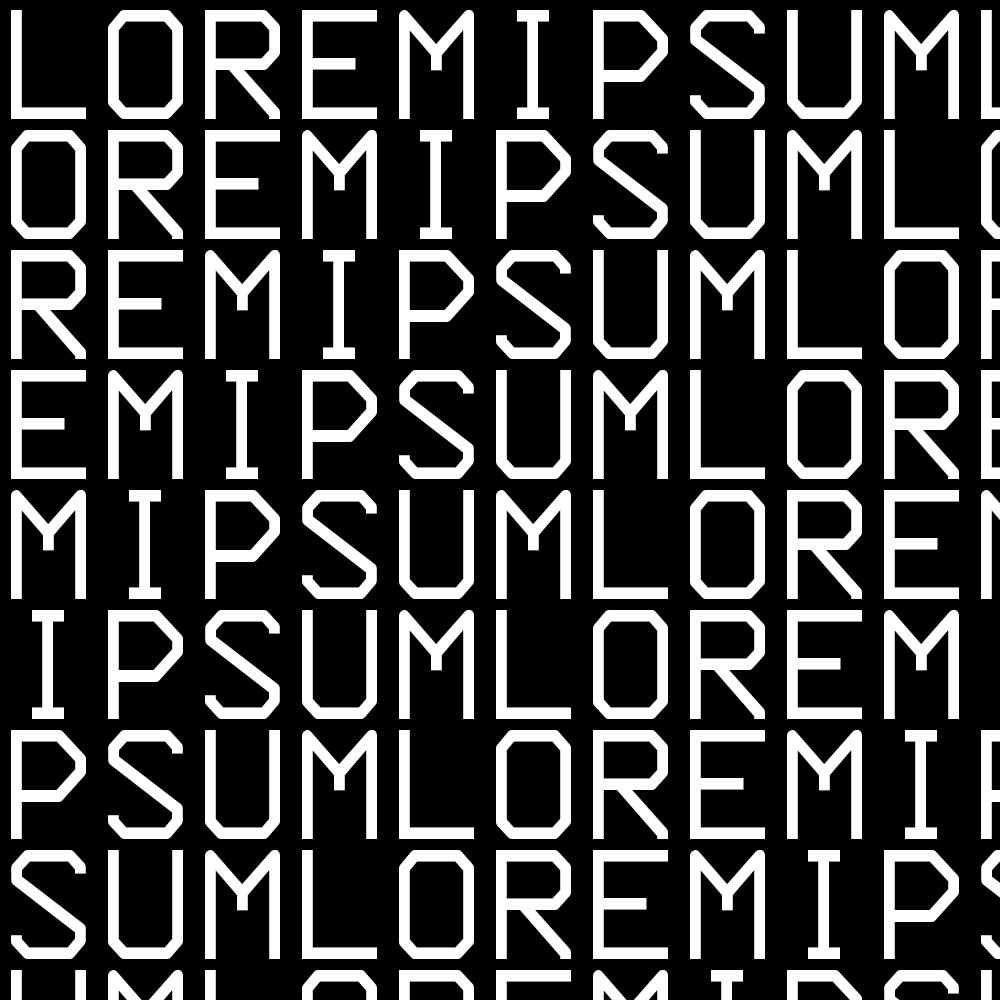
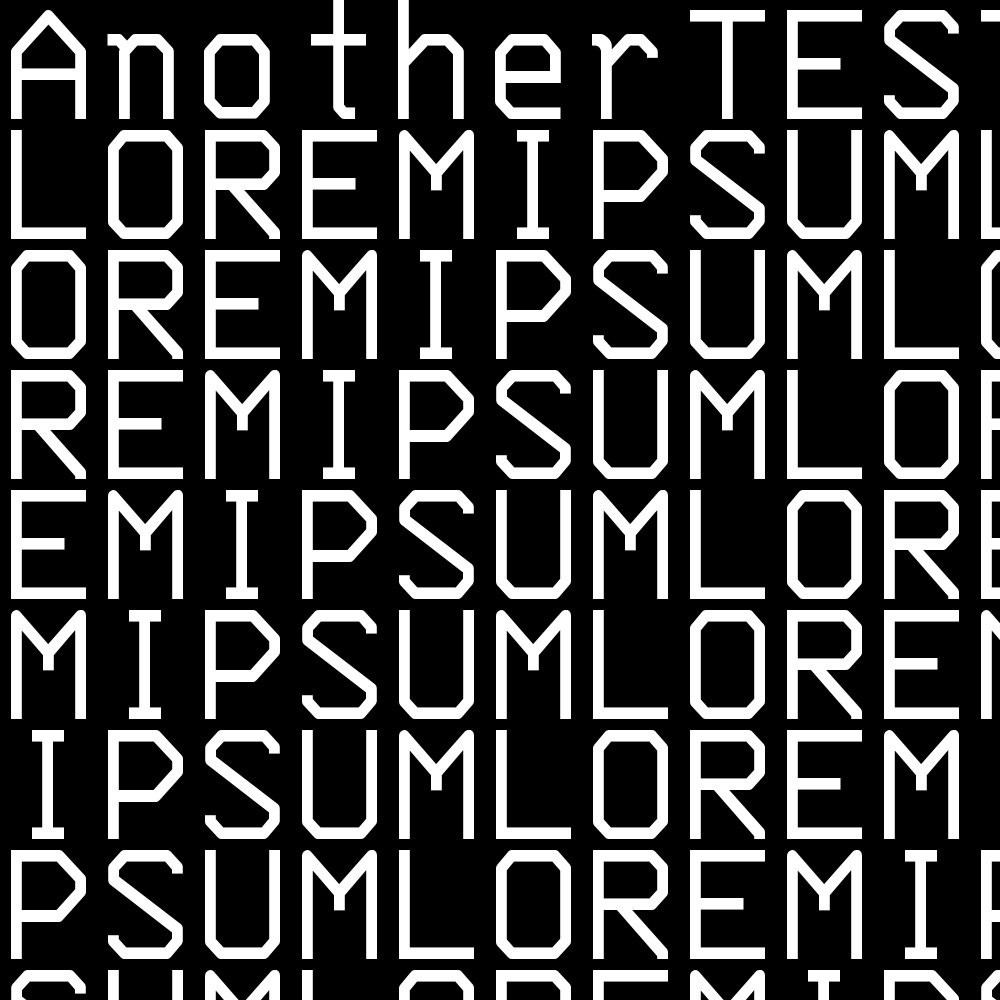
the code works i guess

diff --git a/main.py b/main.py
@@ -4,31 +4,6 @@ import cv2
 from PIL import Image, ImageFont, ImageDraw
 import numpy as np
 
-
-NATO_LIST = []
-NATO_FILES_LIST = []
-BUMPER_FILE_LIST = []
-
-
-def SET_VARS():
-    global now_filename
-    global NAME_LETTER_MP3
-    global NAME_MUSAK_MP3
-    global NAME_ICON_PNG
-    global now
-    global this_hour
-    now = datetime.now(timezone.utc)
-    today = date.today()
-    this_year = str(today.year)
-    this_month = str(today.month)
-    this_day = str(today.day)
-    this_hour = str(int(now.strftime("%H"))+1)
-    now_filename = this_year+"-"+this_month+"-"+this_day+"-"+this_hour
-    NAME_LETTER_MP3 = now_filename+"-LETTERS-TEST.mp3"
-    NAME_MUSAK_MP3 = now_filename+"-MUSAK-TEST.mp3"
-    NAME_ICON_PNG = now_filename+"-ICON-TEST.png"
-
-
 def generate_random_alphanumeric(length):
     characters = string.ascii_uppercase
     random_string = ''.join(random.choices(characters, k=length))
@@ -36,8 +11,8 @@ def generate_random_alphanumeric(length):
 
 
 def TEXT_TO_ICON(Chunks, Text, FilePath):
-    NATO_chunks = textwrap.wrap(Text, Chunks)
-    print(NATO_chunks)
+    TextChunks = textwrap.wrap(Text, Chunks)
+    print(TextChunks)
 
     # Open image with OpenCV
     im_o = np.zeros((1000,1000,3), np.uint8)
@@ -55,7 +30,7 @@ def TEXT_TO_ICON(Chunks, Text, FilePath):
 
 
     LoopCount = TopOffset
-    for Chunk in NATO_chunks:
+    for Chunk in TextChunks:
         Row = (SideOffSet, LoopCount)
         draw.text((Row),Chunk,(255,255,255),font=monospace,align='right')
         print(Row)
@@ -65,10 +40,7 @@ def TEXT_TO_ICON(Chunks, Text, FilePath):
     result_o = np.array(im_p)
     cv2.imwrite(FilePath, result_o)
 
-
-# SET_VARS()
-# NATO_MP3(128)
-TEXT_TO_ICON(11, "LOREMIPSUMLOREMIPSUMLOREMIPSUMLOREMIPSUMLOREMIPSUMLOREMIPSUMLOREMIPSUMLOREMIPSUMLOREMIPSUMLOREMIPSUMLOREMIPSUM", "pfp.jpg")
+TEXT_TO_ICON(11, "AnotherTESTLOREMIPSUMLOREMIPSUMLOREMIPSUMLOREMIPSUMLOREMIPSUMLOREMIPSUMLOREMIPSUMLOREMIPSUMLOREMIPSUMLOREMIPSUMLOREMIPSUM", "pfp.jpg")
 
 
 
